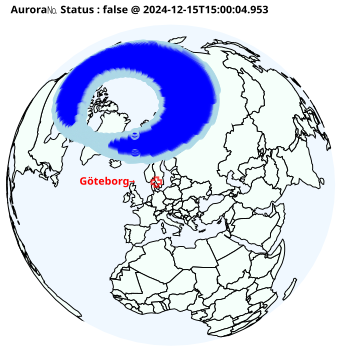
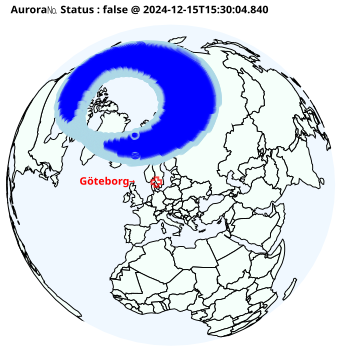
20241215153018 added aur.html

diff --git a/aur.html b/aur.html
@@ -7,6 +7,6 @@
 <body>
     <h1>Aurora Watch</h1>
     <img src="a.png" alt="Aurora Image" style="width:100%;max-width:600px;">
-    <p>Aurora Level 🌌= (0.0) was observed. (2024-12-15T15:00:04.953)</p>
+    <p>Aurora Level 🌌= (0.0) was observed. (2024-12-15T15:30:04.840)</p>
 </body>
 </html>
